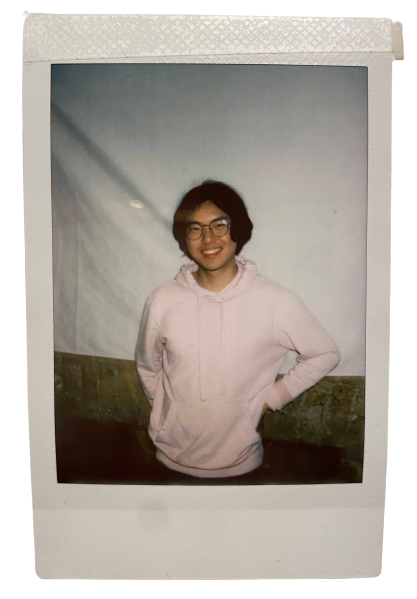
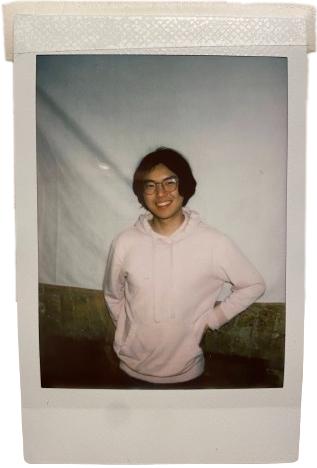
better headshot

diff --git a/src/pages/index.tsx b/src/pages/index.tsx
@@ -15,7 +15,8 @@ import headshot from "public/curtis-chong-headshot.png";
 export default function Home() {
     return (
         <main className="flex min-h-screen flex-row flex-wrap items-center justify-center md:flex-nowrap">
-            <div className="w-full ">
+            {/*This was made using https://www.remove.bg It's really nice since you can "restore" parts that were removelee*/}
+            <div className="w-full">
                 <img src={headshot.src} alt="Me!" className="object-left" />
             </div>
             <div className="flex justify-end md:m-5">
